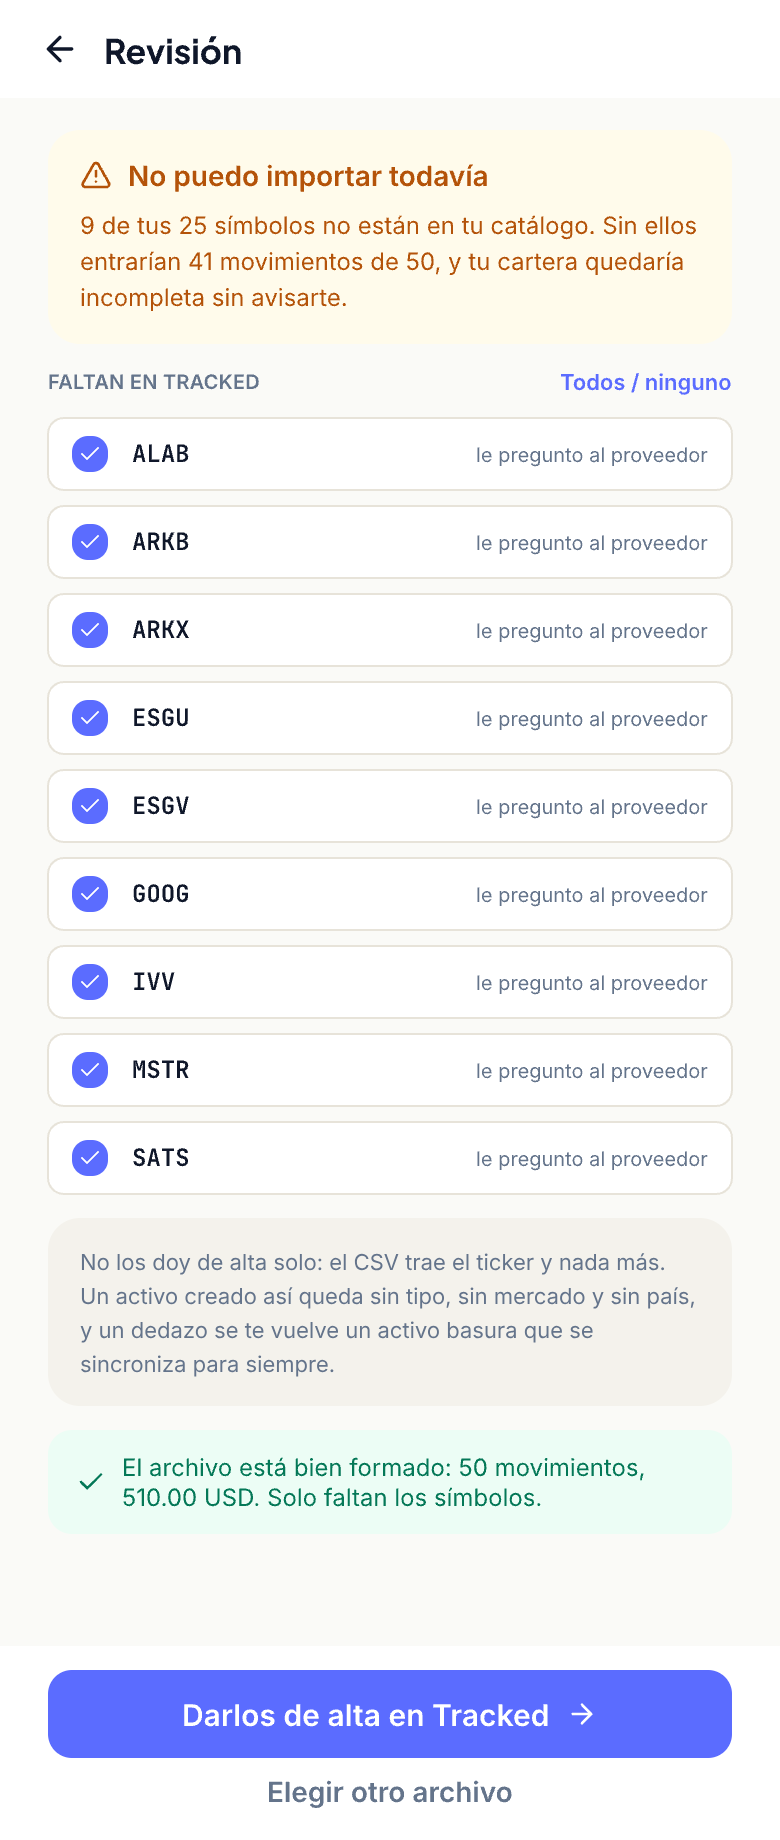
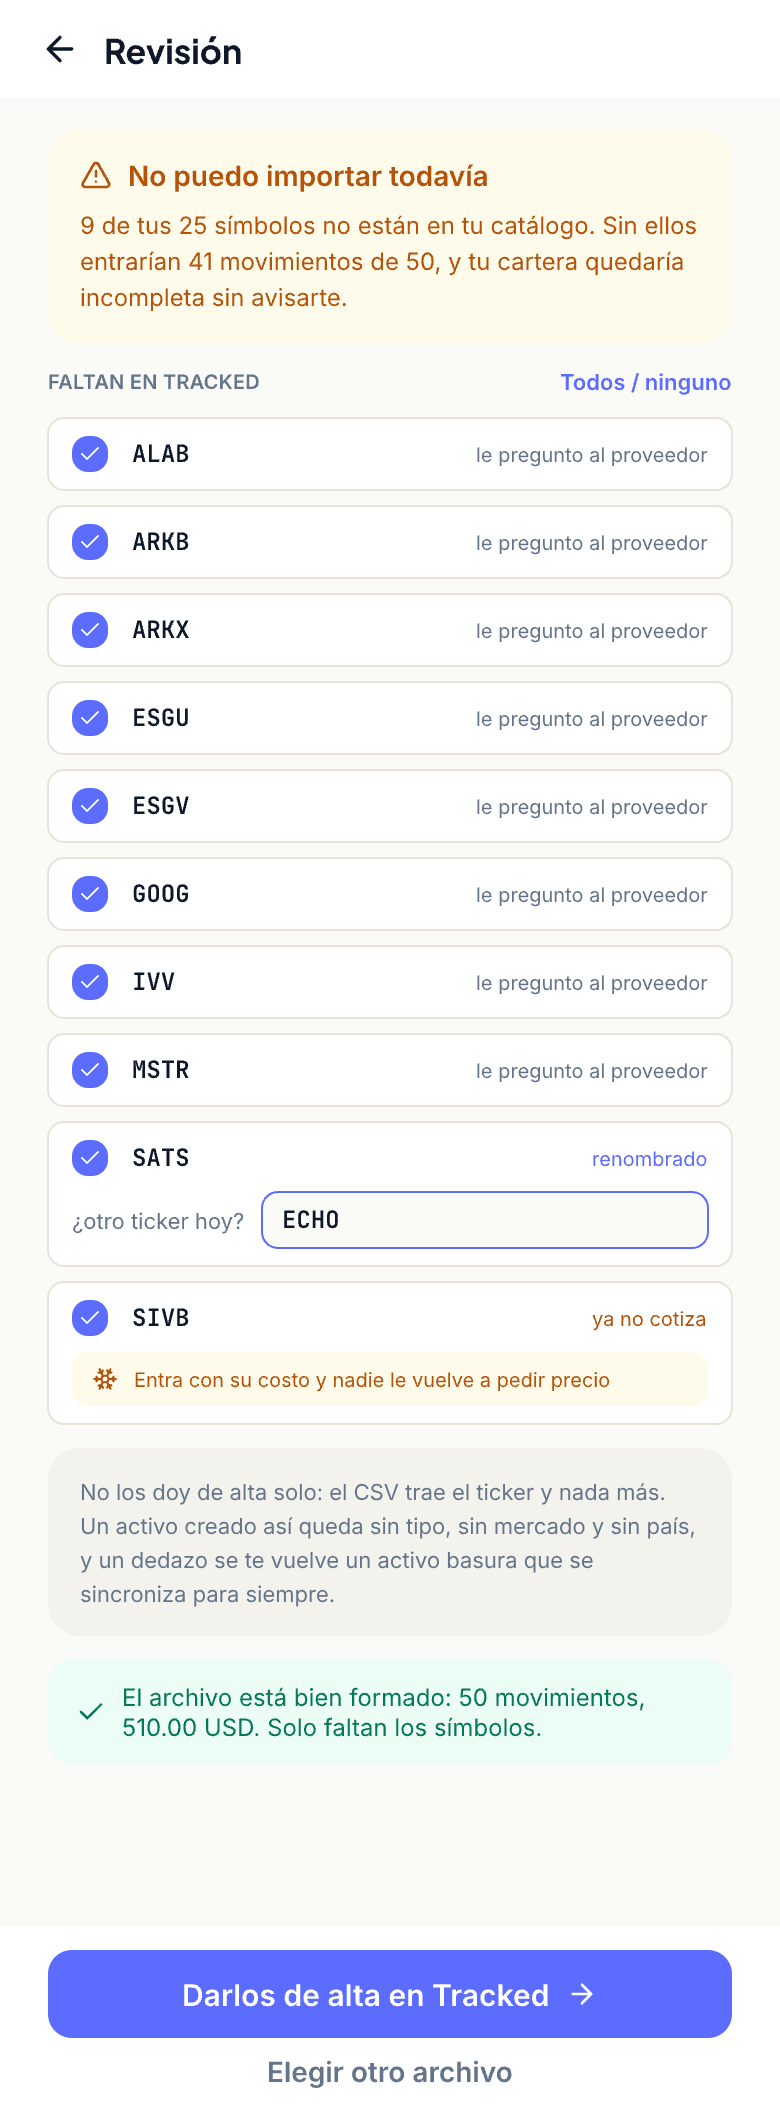
Give an unresolvable ticker somewhere to go, on the artboard first
The refusal screen had one outcome for three situations: a renamed
ticker, a delisted company, and a typo. Each row now says what the symbol
is rather than where its metadata will come from.

SIVB is the frozen example because Silicon Valley Bank is genuinely
delisted -- the artboard models a real file and inventing a ticker for it
would be fiction. The frozen state is drawn differently on purpose: it is
the only one that creates something that will never update again.

D63 closes, and not by being attacked directly -- the uniform source
label stopped being a defect once the column became a state. D65 records
why the live ticker goes in symbol, why it always beats an alias, and why
ignoring the rows was rejected: the owner did buy it and did lose the
money.

Recounted by script, every column: 65 entries, 62 resolved, 6 open. The
count moved in both directions the same day, which is the case
incrementing gets wrong.

diff --git a/design/DECISIONS.md b/design/DECISIONS.md
@@ -4,11 +4,12 @@
 > `ui-kit.lib.pen` cite these by number. Keep entries after resolution — record the outcome
 > instead of deleting; the reasoning is the useful part.
 
-**Status:** 64 entries · 60 resolved · 7 open · 3 🔴 high-impact · 10 🐞 app bugs
+**Status:** 65 entries · 62 resolved · 6 open · 3 🔴 high-impact · 10 🐞 app bugs
 
 > **Every column re-derived by script, 2026-08-29 — recounted, never incremented (D53).** Classifying
-> each `**Dn**` row by its own marker gives **64 entries · 60 ✅ · 7 ⏳ · 3 🔴 · 10 🐞**. Open is
-> D3, D15, D33, D55, D57, D63, D64.
+> each `**Dn**` row by its own marker gives **65 entries · 62 ✅ · 6 ⏳ · 3 🔴 · 10 🐞**. Open is
+> D3, D15, D33, D55, D57, D64. Re-run after D63 closed and D65 was added the same day — the count
+> moved in both directions, which is exactly the case incrementing gets wrong.
 >
 > **The line this replaces was wrong on two columns, and had been since 2026-08-28.** It read
 > `59 resolved · 3 open` against an actual `60 · 5`: D55 and D57 are open and were never counted,
@@ -115,7 +116,8 @@ values, so entries also record forward design calls — each with what we picked
 | **D60** | Two screens render the same trade log, and only one is drawn | Draw `/trades` and keep both · **`Historial` absorbs it** · Absorb it but carry the filters over | ✅ **Resolved 2026-08-28 — `Historial` absorbs `/trades`, and the filters do not come with it.** Raised as ACT-3 in [V2_REMAINING.md](V2_REMAINING.md). **What decided it was measuring the entry points, not the code:** every `trades_path` in a view lives inside `app/views/trades/` itself, so **the screen has no inbound link from anywhere in the app** — it is reachable only by typing the URL. The `Historial` artboard (D43) already draws the same trade log as one of its three sections, and D43 chose those three by measuring which lists had no other home. **The capability question, checked before deciding, and it came back clean:** editing and deleting a trade live in `trades/_trade_row`, which renders from `trades/index` **and** from `positions/_positions_table` — so both affordances already exist on the screen that survives, through the same partial. `market/_position_trades` is read-only and loses nothing. Absorbing costs no capability. **What it costs instead is rebuilding the inline edit/delete inside a `MovementItem` card rather than a `<tr>`** — which is the kit gap that partial already represents, so it is work the ladder owed anyway rather than work this decision creates. **The filters (`tipo` / `mercado` / `anio`) are dropped**, not ported: they are real and they were built for a screen nobody ever opened, which is the strongest available evidence that nothing needed them. They return with a documented trigger, like anything else. **What lands:** the three drawn sections at `/positions`, `trades#index` and its 187-line view deleted along with the controller's filter methods, and the HTML fallbacks that redirect to `trades_path` repointed. `trades#new/create/edit/update/destroy` all stay — the sheet and the inline row flows are not this route. |
 | **D61** | `Card` has no single shape, which is why extracting it kept being deferred | Support every shape as variants · **One canonical shape, the rest are drift** · Leave it inline | ✅ **Resolved 2026-08-28 — `rounded-2xl` is the Card, everything else is drift to correct.** Measured before deciding: of **124 template lines** carrying `bg-bg-surface`, **70 carry a border and a radius in the same `class` attribute** — so the shape really is everywhere. The radii split **45 `rounded-2xl` · 23 `rounded-xl` · 2 `rounded-lg`**, which sums to exactly those 70, and only 26 of them share `p-5`. (Counted with a parser rather than chained greps: an earlier grep reported 105 by matching `border` and `rounded` anywhere on the line, including attributes split across lines, and its parts did not add up.) That is the reason the extraction stalled three times: there is no *one* Card to extract, and a partial that takes a radius and a padding argument is worse than the inline it replaces. **`rounded-2xl` wins on being the majority**, not on taste. The `rounded-xl` sites become a correction, made as they are touched rather than in a sweep of their own. **Bars are out of scope**: six files use `bg-bg-surface` on a `<header>`/`<nav>` (`_top_bar`, `_header_bar`, `_top_bar_desktop`, …) and are not cards. Unblocks **KIT-1**. Commands are in [V2_REMAINING](V2_REMAINING.md)'s kit section. |
 | **D62** | The empty state's CSV door names three brokers the engine cannot read | Narrow the copy to the format that exists · Build a per-broker adapter for each · Keep the copy and surface the mismatch inside the import screen | ✅ **Resolved 2026-08-28 — one format, Stockerly's, and the door says so.** Adrian: *"va a ser un formato de stockerly no de otros para empezar"*. The recommendation was to narrow now and widen with evidence, and that is what landed. **What changed:** the artboard's second door reads *Importar movimientos · Carga el formato de Stockerly, de archivo o pegado.* — no broker names, and the label matches the screen it opens. The code door (`assets/index`) and the import screen's own copy were narrowed in the same pass, so door and screen agree for the first time. **What did not change:** the importer. It already read one format; the claim was the only thing that was ever wider than the engine. Widening it again is three parsers, three formats that drift and three support surfaces — it needs a documented trigger, and the only broker export anyone has held arrives as a PDF that a script outside the app already converts. |
-| **D63** | The unknown-symbol screen labels every row with where its metadata will come from | Keep the per-row source label always · Show it only when the list is mixed · Drop it entirely | ⏳ **Open — Adrian's call.** The screen now lists each missing symbol as a checked box (#416), and each row carries *en el catálogo* or *le pregunto al proveedor* because the two halves cost differently: one is free and certain, the other spends a provider call and may return nothing. **Measured against the maintainer's real file, the label is uniform** — all nine missing symbols resolve through the provider, because the bundled catalogue is already seeded on any instance that has run for a while. Nine identical strings down the right edge is noise, and the label only earns its place on a mixed list. The artboard draws the uniform case, which is the honest one. Raised while drawing #416, 2026-08-29. |
+| **D63** | The unknown-symbol screen labels every row with where its metadata will come from | Keep the per-row source label always · Show it only when the list is mixed · Drop it entirely | ✅ **Resolved 2026-08-29 — the column became a state instead of a label.** It arrived by way of a different problem: a delisted company needs somewhere to go too. Each row now says *what this symbol is* — `le pregunto al proveedor`, `renombrado` with the ticker it trades under today, or `ya no cotiza`. Uniform-on-real-data stops being a defect, because the uniform case is the one where nothing special happened. The two new states are **D65**. Original finding: The screen now lists each missing symbol as a checked box (#416), and each row carries *en el catálogo* or *le pregunto al proveedor* because the two halves cost differently: one is free and certain, the other spends a provider call and may retu
+| **D65** | A symbol the provider cannot resolve has one outcome, and there are three | Leave it blocking · Alias for renames, frozen for delistings · Let the owner ignore the rows | ✅ **Decided 2026-08-29 — alias and frozen, explicitly not ignore.** A ticker that will not resolve is not one situation: it was **renamed** (EchoStar traded as `SATS` in December and as `ECHO` now), it was **delisted**, or it is a typo. One refusal for all three is why a single dead ticker held up fifty trades. **Rename → `former_symbols`:** one asset, the live ticker in `symbol` because that is what syncs, prior ones recorded for lookup only — putting the retired ticker in `symbol` would freeze the asset forever. **A live symbol always beats an alias**, or a genuine purchase of a reassigned ticker would land silently in the old company's position. **Delisted → `sync_status: :disabled`**, which the model already has and every sync job already filters on. **Ignoring the rows was rejected and Adrian agreed:** the owner did buy it and did lose the money, so dropping the rows makes `invested` wrong and turns a real loss into a silent hole — and it would be strange to protect against an accidental partial import, then ship a button that makes one permanent. The partial import (#421) stays for *I genuinely do not want these rows*, where the choice is per file and visible. |rn nothing. **Measured against the maintainer's real file, the label is uniform** — all nine missing symbols resolve through the provider, because the bundled catalogue is already seeded on any instance that has run for a while. Nine identical strings down the right edge is noise, and the label only earns its place on a mixed list. The artboard draws the uniform case, which is the honest one. Raised while drawing #416, 2026-08-29. |
 | **D64** | The *Agregar activo* typeahead has no artboard, and the code changed under it | Draw it into `assets.pen` · Leave it undrawn and record why | ⏳ **Open — Adrian's call.** `Tracked · Buscar` draws the **list filter** (*Buscar entre tus 34 activos*), not the ticker typeahead that `assets/_track_form` renders — the one that queries a provider and fills symbol, name, exchange, country and now sector. Nothing in this flow draws that form, so two shipped changes have no design to catch up with: the search moved to Yahoo and answers **company names**, not only tickers ([ADR-017's amendment](../docs/architecture/adr/0017-python-bridge-for-yahoo-finance.md)), and **Sector now autofills** — the field and its Stimulus target already existed and were never populated, because Alpha Vantage's search returned no sector. Drawing it is a new screen, not an update, which is why this is a decision rather than a task. Raised 2026-08-29. |
 
 
